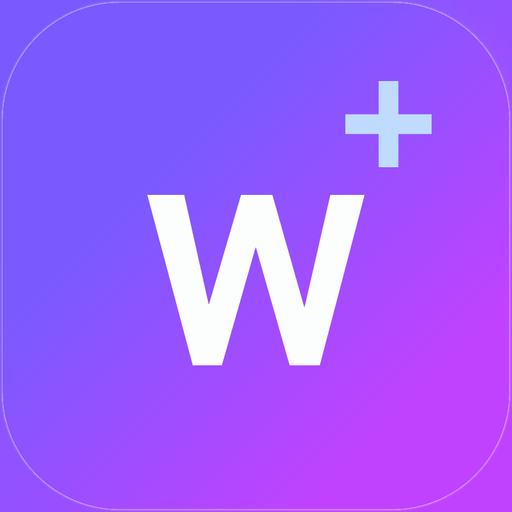
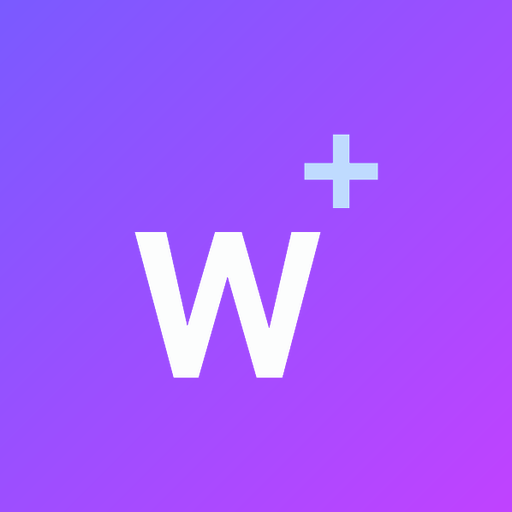
feat: Add to Home Screen (PWA install) on the landing page and top bar
- lib/installPrompt: captures beforeinstallprompt at load (Chromium → native
  prompt), detects iOS Safari / other iOS browsers / Android without a prompt,
  and hides everything when installed or running standalone.
- InstallApp: landing-page button under Get started; 📲 icon left of ☕ in the
  top bar with a one-time pulse + "Install Worship+" tooltip; slide-up sheet
  with Share / Add to Home Screen steps (or open-in-Safari / browser-menu steps).
- Manifest: theme_color → #735fee; maskable icons rebuilt full-bleed with the
  logo inside the safe zone (512 + new 192), precached by the service worker.

Claude-Session: https://claude.ai/code/session_016YJ4uh189ocAzBmuMNMKZY

diff --git a/app/_components/InstallApp.tsx b/app/_components/InstallApp.tsx
@@ -1,0 +1,175 @@
+"use client";
+
+import Image from "next/image";
+import { useEffect, useState, type ReactNode } from "react";
+import { createPortal } from "react-dom";
+import { backdropDismiss } from "@/lib/backdropDismiss";
+import { promptInstall, useInstallMode, type InstallMode } from "@/lib/installPrompt";
+import { usePersistedState } from "@/lib/usePersistedState";
+
+/* "Add to Home Screen" UI: the landing-page button, the top-bar 📲 icon (with
+   a one-time nudge) and the instructions sheet. Behaviour per platform lives
+   in lib/installPrompt.ts. Everything renders nothing when installed /
+   standalone or when the browser has no way to install. */
+
+/** Tap handler + sheet shared by both entry points. */
+function useInstallAction() {
+  const mode = useInstallMode();
+  const [sheetMode, setSheetMode] = useState<Exclude<InstallMode, "prompt"> | null>(null);
+  const start = async () => {
+    if (mode === "prompt") {
+      const r = await promptInstall();
+      if (r !== null) return;
+      // Prompt was already used up — fall back to manual steps where possible.
+      if (/Android/i.test(navigator.userAgent)) setSheetMode("android-manual");
+      return;
+    }
+    if (mode) setSheetMode(mode);
+  };
+  const sheet = sheetMode ? <InstallSheet mode={sheetMode} onClose={() => setSheetMode(null)} /> : null;
+  return { mode, start, sheet };
+}
+
+/* ── Glyphs (drawn to match the iOS / Android UI the user will look for) ── */
+const ShareGlyph = () => (
+  <svg width="22" height="22" viewBox="0 0 24 24" fill="none" stroke="currentColor" strokeWidth="2" strokeLinecap="round" strokeLinejoin="round" aria-hidden="true">
+    <path d="M12 3v12" /><path d="M8 7l4-4 4 4" /><path d="M7 10H6a2 2 0 0 0-2 2v7a2 2 0 0 0 2 2h12a2 2 0 0 0 2-2v-7a2 2 0 0 0-2-2h-1" />
+  </svg>
+);
+const AddToHomeGlyph = () => (
+  <svg width="22" height="22" viewBox="0 0 24 24" fill="none" stroke="currentColor" strokeWidth="2" strokeLinecap="round" strokeLinejoin="round" aria-hidden="true">
+    <rect x="3.5" y="3.5" width="17" height="17" rx="4" /><path d="M12 8.5v7" /><path d="M8.5 12h7" />
+  </svg>
+);
+const MenuDotsGlyph = () => (
+  <svg width="22" height="22" viewBox="0 0 24 24" fill="currentColor" aria-hidden="true">
+    <circle cx="12" cy="5" r="1.8" /><circle cx="12" cy="12" r="1.8" /><circle cx="12" cy="19" r="1.8" />
+  </svg>
+);
+const SafariGlyph = () => (
+  <svg width="22" height="22" viewBox="0 0 24 24" fill="none" stroke="currentColor" strokeWidth="2" strokeLinecap="round" strokeLinejoin="round" aria-hidden="true">
+    <circle cx="12" cy="12" r="9" /><path d="M15.5 8.5l-2 5-5 2 2-5z" />
+  </svg>
+);
+export const PhoneInstallGlyph = ({ size = 22 }: { size?: number }) => (
+  <svg width={size} height={size} viewBox="0 0 24 24" fill="none" stroke="currentColor" strokeWidth="2" strokeLinecap="round" strokeLinejoin="round" aria-hidden="true">
+    <rect x="6" y="2" width="12" height="20" rx="2.5" /><path d="M12 7v7" /><path d="M9 11l3 3 3-3" /><path d="M11 18.5h2" />
+  </svg>
+);
+
+function Step({ n, glyph, children }: { n: number; glyph: ReactNode; children: ReactNode }) {
+  return (
+    <li className="flex items-center gap-3 rounded-2xl bg-white dark:bg-slate-900 border border-slate-200 dark:border-slate-800 px-4 py-3">
+      <span className="w-6 h-6 shrink-0 rounded-full bg-[#735fee] text-white text-xs font-bold flex items-center justify-center">{n}</span>
+      <span className="flex-1 min-w-0 text-sm text-slate-700 dark:text-slate-200">{children}</span>
+      <span className="w-10 h-10 shrink-0 rounded-xl bg-[#efe9fe] dark:bg-[#2a2440] text-[#6350ef] dark:text-[#b3a3ff] flex items-center justify-center">{glyph}</span>
+    </li>
+  );
+}
+
+function InstallSheet({ mode, onClose }: { mode: Exclude<InstallMode, "prompt">; onClose: () => void }) {
+  const [copied, setCopied] = useState(false);
+  useEffect(() => {
+    const onKey = (e: KeyboardEvent) => { if (e.key === "Escape") onClose(); };
+    window.addEventListener("keydown", onKey);
+    return () => window.removeEventListener("keydown", onKey);
+  }, [onClose]);
+  if (typeof document === "undefined") return null;
+  const copyLink = () => {
+    void navigator.clipboard?.writeText(window.location.origin).then(() => setCopied(true)).catch(() => {});
+  };
+  return createPortal(
+    <div className="fixed inset-0 z-[65] bg-black/50 flex items-end sm:items-center justify-center p-0 sm:p-4 print:hidden" {...backdropDismiss(onClose)}>
+      <div role="dialog" aria-modal="true" aria-labelledby="install-title"
+        className="wp-sheet-up w-full sm:max-w-sm bg-[#f8f6ff] dark:bg-slate-950 rounded-t-3xl sm:rounded-3xl border border-violet-100 dark:border-slate-800 shadow-2xl px-5 pt-3 sm:pt-6 pb-[calc(1.25rem+env(safe-area-inset-bottom,0px))] text-center"
+        onClick={(e) => e.stopPropagation()}>
+        <div className="sm:hidden flex justify-center mb-3" aria-hidden="true"><span className="w-10 h-1 rounded-full bg-slate-300 dark:bg-slate-700" /></div>
+        <Image src="/icon-192.png" alt="" width={64} height={64} className="mx-auto w-16 h-16 rounded-2xl shadow-lg shadow-violet-500/25" />
+        <h2 id="install-title" className="mt-4 text-lg font-bold tracking-tight text-slate-900 dark:text-slate-100">Add Worship+ to your Home Screen</h2>
+        <p className="mt-1 text-sm text-slate-600 dark:text-slate-300">Two quick taps and Worship+ opens full-screen, like an app.</p>
+
+        {mode === "ios-other" ? (
+          <>
+            <ol className="mt-5 space-y-2 text-left">
+              <Step n={1} glyph={<SafariGlyph />}>Open <span className="font-semibold">worshipplus</span> in <span className="font-semibold">Safari</span></Step>
+              <Step n={2} glyph={<ShareGlyph />}>Tap <span className="font-semibold">Share</span> → <span className="font-semibold">Add to Home Screen</span></Step>
+            </ol>
+            <p className="mt-3 text-xs text-slate-500 dark:text-slate-400">Only Safari can add apps to the Home Screen on iPhone and iPad.</p>
+            <button type="button" onClick={copyLink}
+              className="mt-3 w-full h-10 rounded-xl text-sm font-semibold bg-[#efe9fe] dark:bg-[#2a2440] text-[#6350ef] dark:text-[#b3a3ff] hover:bg-[#e6dcfd] transition-colors">
+              {copied ? "Link copied — paste it in Safari" : "Copy link for Safari"}
+            </button>
+          </>
+        ) : mode === "android-manual" ? (
+          <ol className="mt-5 space-y-2 text-left">
+            <Step n={1} glyph={<MenuDotsGlyph />}>Tap your browser&rsquo;s <span className="font-semibold">menu</span> (⋮)</Step>
+            <Step n={2} glyph={<AddToHomeGlyph />}>Tap <span className="font-semibold">Install app</span> or <span className="font-semibold">Add to Home screen</span></Step>
+          </ol>
+        ) : (
+          <ol className="mt-5 space-y-2 text-left">
+            <Step n={1} glyph={<ShareGlyph />}>Tap the <span className="font-semibold">Share</span> icon in Safari&rsquo;s toolbar</Step>
+            <Step n={2} glyph={<AddToHomeGlyph />}>Scroll down and tap <span className="font-semibold">Add to Home Screen</span></Step>
+          </ol>
+        )}
+
+        <button type="button" onClick={onClose}
+          className="mt-5 w-full h-12 rounded-xl bg-[#735fee] hover:bg-[#6650e6] text-base font-semibold text-white shadow-md shadow-violet-500/20 transition-colors">
+          Got it
+        </button>
+      </div>
+    </div>,
+    document.body,
+  );
+}
+
+/** Top-bar 📲 icon (logged-in). Sits immediately left of the ☕ icon. The
+    first time it appears it pulses once with an "Install Worship+" tooltip,
+    dismissed on tap or after a few seconds, and never shown again. */
+export function InstallHeaderButton() {
+  const { mode, start, sheet } = useInstallAction();
+  const [nudgeSeen, setNudgeSeen] = usePersistedState<boolean>("wp-install-nudge-seen-v1", false,
+    (v): v is boolean => typeof v === "boolean");
+  const nudge = !!mode && !nudgeSeen;
+  useEffect(() => {
+    if (!nudge) return;
+    const t = setTimeout(() => setNudgeSeen(true), 5000);
+    return () => clearTimeout(t);
+  }, [nudge, setNudgeSeen]);
+  if (!mode) return null;
+  return (
+    <>
+      <div className="relative shrink-0">
+        <button type="button" onClick={() => { setNudgeSeen(true); void start(); }}
+          aria-label="Install Worship+ — add to Home Screen" title="Add to Home Screen"
+          className="relative w-9 h-9 flex items-center justify-center text-[#6350ef] dark:text-[#b3a3ff] hover:text-[#5b3be0] dark:hover:text-violet-200 transition-colors">
+          {nudge && <span aria-hidden="true" className="absolute inset-1 rounded-full bg-[#9d8bff]/40 motion-safe:animate-ping" />}
+          <span className="relative"><PhoneInstallGlyph /></span>
+        </button>
+        {nudge && (
+          <div role="status" className="absolute right-0 top-full mt-2 z-40 whitespace-nowrap rounded-lg bg-[#735fee] px-2.5 py-1.5 text-xs font-semibold text-white shadow-lg shadow-violet-500/30 pointer-events-none">
+            <span aria-hidden="true" className="absolute -top-1 right-3.5 w-2 h-2 rotate-45 bg-[#735fee]" />
+            Install Worship+
+          </div>
+        )}
+      </div>
+      {sheet}
+    </>
+  );
+}
+
+/** Landing-page (logged-out) install call-to-action. */
+export function InstallLandingButton() {
+  const { mode, start, sheet } = useInstallAction();
+  if (!mode) return null;
+  return (
+    <div className="mt-3">
+      <button type="button" onClick={() => void start()}
+        // Solid deep purple (white text ≥4.5:1) with a soft white ring, so it
+        // reads as the secondary action under the white "Get started" button.
+        className="inline-flex items-center justify-center gap-2 rounded-2xl bg-[#5a3fd6] hover:bg-[#4f35c9] px-6 py-3 text-base font-semibold text-white ring-1 ring-white/35 shadow-lg shadow-violet-900/20 transition-colors">
+        <span aria-hidden="true">📲</span> Add to Home Screen
+      </button>
+      {sheet}
+    </div>
+  );
+}

diff --git a/lib/installPrompt.ts b/lib/installPrompt.ts
@@ -1,0 +1,102 @@
+"use client";
+
+import { useSyncExternalStore } from "react";
+
+/* "Add to Home Screen" (PWA install) — platform detection + the deferred
+   native prompt, shared by the landing-page button and the top-bar icon.
+
+   - Chromium (Android / desktop Chrome / Edge) fires `beforeinstallprompt`
+     once the site is installable. It can fire before React mounts, so the
+     listener is attached at MODULE LOAD (this file is imported by the root
+     layout's ServiceWorkerRegister, so it runs on every page) and the event is
+     kept here until the user taps Install.
+   - iOS has no prompt: Safari users get a 2-step Share → Add to Home Screen
+     sheet; other iOS browsers are told to open the site in Safari.
+   - Android browsers without the prompt (Firefox, Samsung before it's ready…)
+     get manual "browser menu → Add to Home screen" steps.
+   - Already installed / running standalone → nothing is shown anywhere. */
+
+type BeforeInstallPromptEvent = Event & {
+  prompt: () => Promise<void>;
+  userChoice: Promise<{ outcome: "accepted" | "dismissed"; platform: string }>;
+};
+
+export type InstallMode = "prompt" | "ios-safari" | "ios-other" | "android-manual";
+
+let deferred: BeforeInstallPromptEvent | null = null;
+let installedNow = false;
+const listeners = new Set<() => void>();
+const emit = () => listeners.forEach((l) => l());
+
+if (typeof window !== "undefined") {
+  window.addEventListener("beforeinstallprompt", (e) => {
+    e.preventDefault(); // keep Chrome's mini-infobar away; we offer our own button
+    deferred = e as BeforeInstallPromptEvent;
+    emit();
+  });
+  window.addEventListener("appinstalled", () => {
+    deferred = null;
+    installedNow = true;
+    emit();
+  });
+}
+
+function isStandalone(): boolean {
+  if (typeof window === "undefined") return false;
+  return (
+    window.matchMedia?.("(display-mode: standalone)").matches ||
+    window.matchMedia?.("(display-mode: fullscreen)").matches ||
+    window.matchMedia?.("(display-mode: minimal-ui)").matches ||
+    (navigator as Navigator & { standalone?: boolean }).standalone === true
+  );
+}
+
+function isIOS(ua: string): boolean {
+  // iPadOS 13+ reports a Mac user-agent; a touch-capable "Mac" is an iPad.
+  return /iPhone|iPad|iPod/.test(ua) || (/Macintosh/.test(ua) && navigator.maxTouchPoints > 1);
+}
+
+function computeMode(): InstallMode | null {
+  if (typeof window === "undefined") return null;
+  if (installedNow || isStandalone()) return null;
+  if (deferred) return "prompt";
+  const ua = navigator.userAgent;
+  if (isIOS(ua)) {
+    // Chrome/Firefox/Edge/Opera/Google app and in-app browsers (Facebook,
+    // Instagram, LINE, WeChat…) can't add to the Home Screen — only Safari can.
+    const other = /CriOS|FxiOS|EdgiOS|OPiOS|OPT\/|GSA\/|YaBrowser|DuckDuckGo|FBAN|FBAV|Instagram|Line\/|MicroMessenger|WhatsApp/i.test(ua);
+    return other ? "ios-other" : "ios-safari";
+  }
+  if (/Android/i.test(ua)) return "android-manual";
+  return null; // desktop browser without an install prompt: nothing to offer
+}
+
+function subscribe(onChange: () => void) {
+  listeners.add(onChange);
+  const mq = window.matchMedia?.("(display-mode: standalone)");
+  mq?.addEventListener?.("change", onChange);
+  return () => {
+    listeners.delete(onChange);
+    mq?.removeEventListener?.("change", onChange);
+  };
+}
+
+/** Current install mode, or null when there's nothing to offer (installed,
+    standalone, unsupported desktop browser, or server render). */
+export function useInstallMode(): InstallMode | null {
+  return useSyncExternalStore(subscribe, computeMode, () => null);
+}
+
+/** Show the native install dialog (Chromium). Resolves to the outcome, or
+    null if no prompt is available any more. */
+export async function promptInstall(): Promise<"accepted" | "dismissed" | null> {
+  const e = deferred;
+  if (!e) return null;
+  deferred = null; // a prompt can only be used once
+  emit();
+  await e.prompt();
+  const { outcome } = await e.userChoice;
+  if (outcome === "accepted") installedNow = true;
+  emit();
+  return outcome;
+}

diff --git a/app/_components/LandingPage.tsx b/app/_components/LandingPage.tsx
@@ -1,6 +1,7 @@
 import Image from "next/image";
 import Link from "next/link";
 import { KOFI_URL } from "@/lib/support";
+import { InstallLandingButton } from "@/app/_components/InstallApp";
 import type { ReactNode } from "react";
 
 /* ─── Landing page ───────────────────────────────────────────────────────────
@@ -134,6 +135,9 @@ export default function LandingPage() {
             style={{ color: "#6350ef" }}>
             Get started — it&apos;s free
           </Link>
+          {/* PWA install — auto-detects Android/Chrome (native prompt) vs iOS
+              (Share → Add to Home Screen sheet). Hidden when already installed. */}
+          <InstallLandingButton />
           <div className="mt-5">
             <span className="inline-flex items-center rounded-full bg-white/15 px-3.5 py-1.5 text-xs font-medium text-white ring-1 ring-white/25 backdrop-blur-sm">
               ✓ No plans · No paywalls · No card

diff --git a/app/app/page.tsx b/app/app/page.tsx
@@ -23,6 +23,7 @@ import { prepareImageFile, fileToBase64 } from "@/lib/image/prepare";
 import SongSearchSheet, { type SongSearchResult } from "@/app/_components/SongSearchSheet";
 import UpgradeModal from "@/app/_components/UpgradeModal";
 import SupportModal from "@/app/_components/SupportModal";
+import { InstallHeaderButton } from "@/app/_components/InstallApp";
 import { createPortal } from "react-dom";
 import Link from "next/link";
 import { isPaidPlan, PLANS, type Plan } from "@/lib/plans";
@@ -3859,6 +3860,8 @@ function TopNav({
           </button>
         </div>
         <div className="flex items-center gap-2 shrink-0">
+          {/* Add to Home Screen — hidden when installed / standalone. */}
+          <InstallHeaderButton />
           {/* Support Worship+ — optional Ko-fi tip jar. Plain purple icon (no
               circle or ring); the 36px button keeps a comfortable tap target.
               Opens SupportModal. */}

diff --git a/app/_components/ServiceWorkerRegister.tsx b/app/_components/ServiceWorkerRegister.tsx
@@ -1,6 +1,9 @@
 "use client";
 
 import { useEffect } from "react";
+// Side effect: start listening for `beforeinstallprompt` as early as possible
+// on every page (it can fire before any install button mounts).
+import "@/lib/installPrompt";
 
 /**
  * Registers the PWA service worker. Production-only so local dev (Turbopack) is

diff --git a/public/sw.js b/public/sw.js
@@ -30,6 +30,7 @@ const PRECACHE_URLS = [
   "/manifest.webmanifest",
   "/icon-192.png",
   "/icon-512.png",
+  "/icon-maskable-192.png",
   "/icon-maskable-512.png",
   "/apple-touch-icon.png",
 ];
